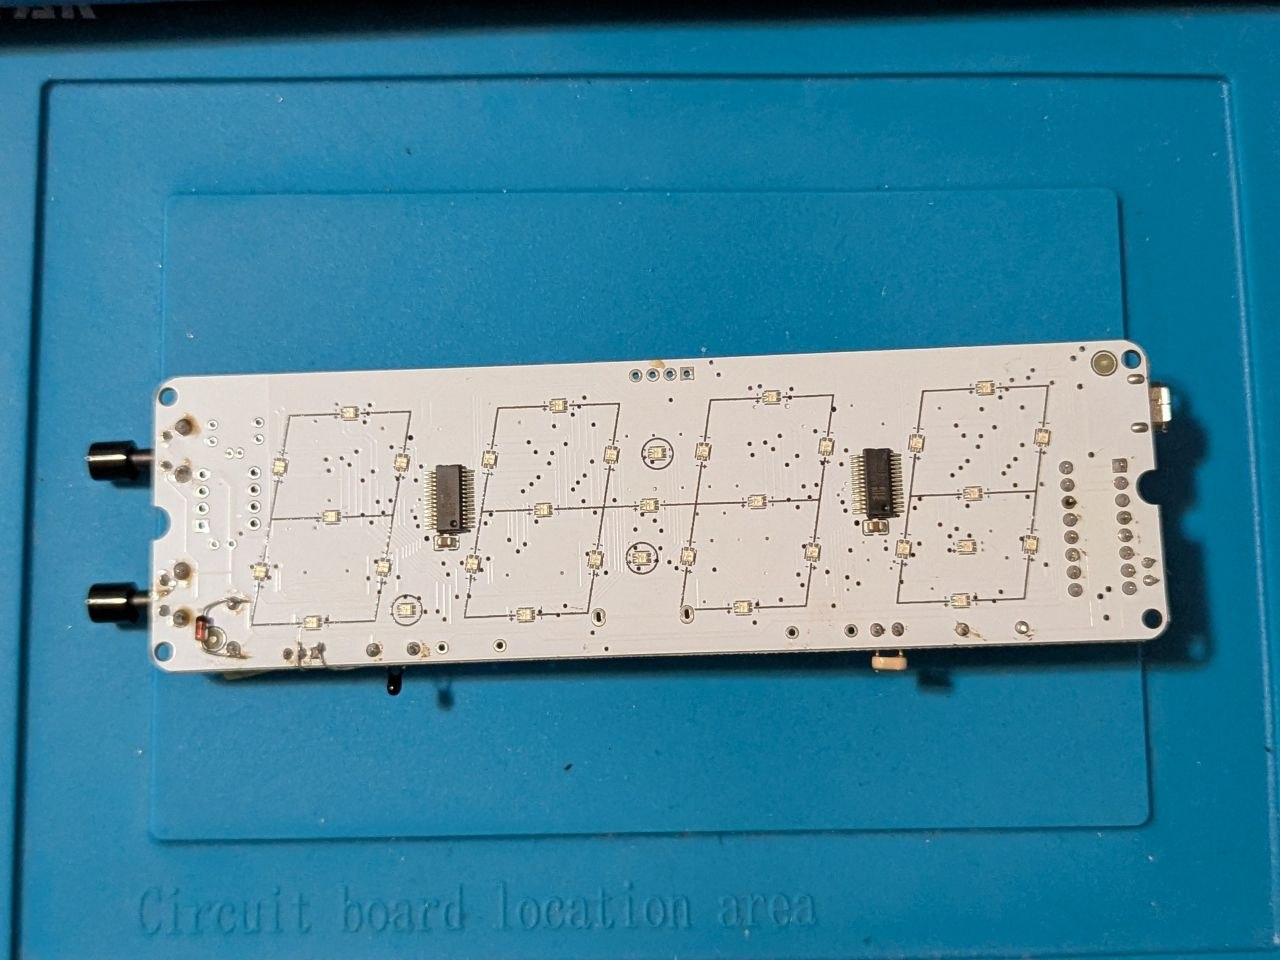
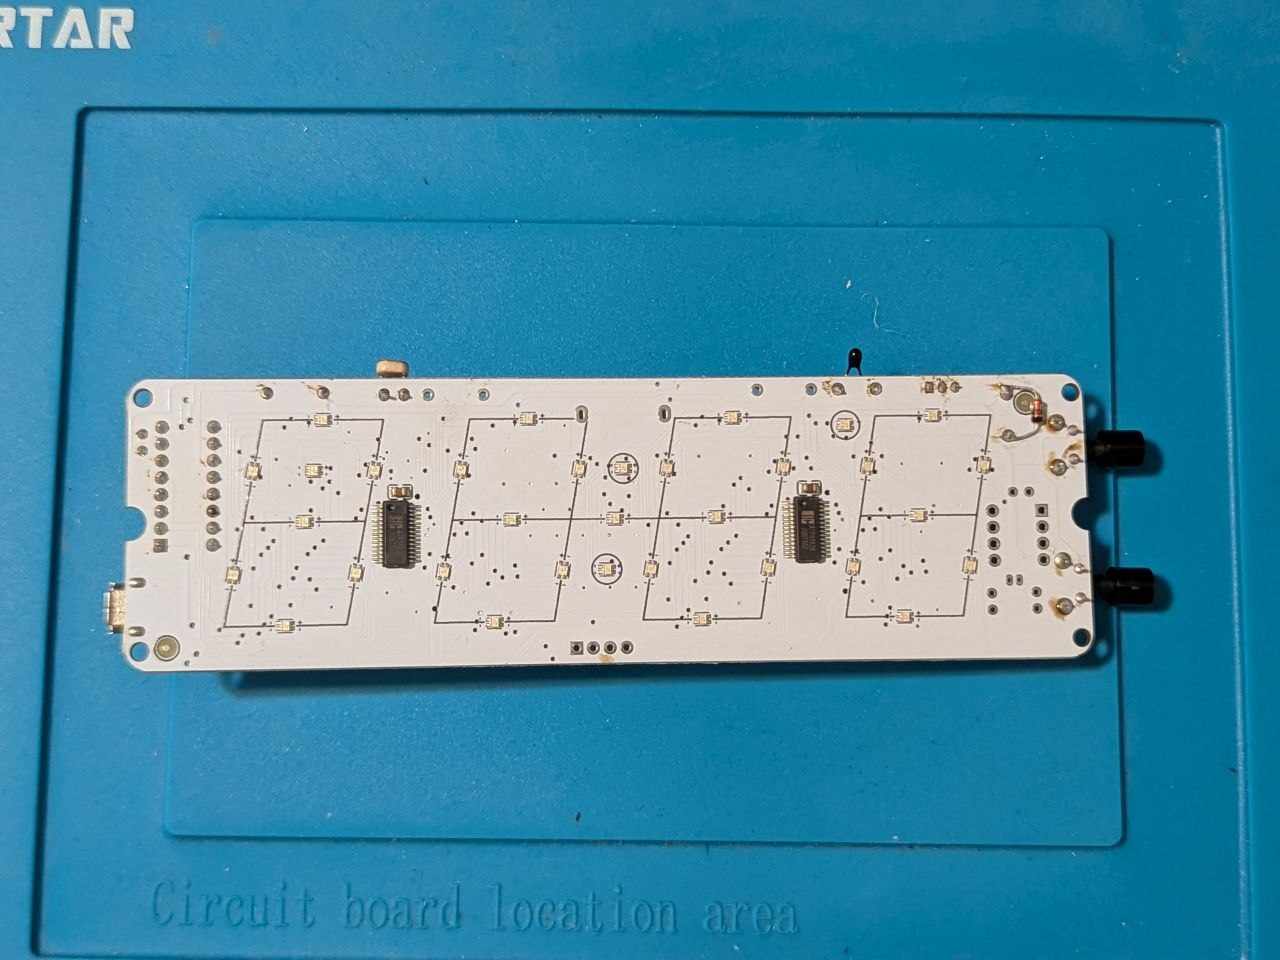
The buzzer mod is two changes: the diode and R5
The user's scope, 2026-11-17: with RBE and the BAT42 the signal at the
buzzer is the same as with the flyback diode and R5 at 5.1 k alone, so
the README drops both, and its pictures are retaken without them. A
BAT42 with no RBE keeps Q1 on all the time.

The buzzer's coil is 16 ohm, not 32, and Q1 is an S8550 in TO-92:
0.39 W in it at the worst, inside its 625 mW. agents/hardware.md has
the parts, the figures and the scope's finding.

diff --git a/README.md b/README.md
@@ -85,7 +85,7 @@ display and differs in these ways:
 | pin header | the one that comes with the module |
 | 2 × 10 kΩ 0603 resistors, ideally 1 % | R1 and R2 on the adapter; only needed for the temperature and light sensors |
 | 10 µF 25 V electrolytic capacitor | replaces the kit's C3, optional but recommended |
-| 1N4148 diode, a 5.1 kΩ and a 2.2 kΩ resistor, a BAT42 diode | the buzzer mod: optional, but the clips do not sound good without it |
+| 1N4148 diode, a 5.1 kΩ resistor | the buzzer mod: optional, but the clips do not sound good without it |
 | 5 V USB power supply | 1 A recommended; 500 mA works |
 
 ### The clock board
@@ -128,7 +128,7 @@ contacts and there is clearance under the adapter, fit the socket and
 the adapter is removable; if not, solder the adapter's header straight
 into the U4 footprint.
 
-**The buzzer mod, optional:** four changes that make the alarm louder
+**The buzzer mod, optional:** two changes that make the alarm louder
 and cleaner. The beeps and the note melodies are fine on a stock
 board; the [clips](#clips) are not, so do the mod if you want them:
 without it they are quiet and distorted. The firmware is the same
@@ -141,31 +141,19 @@ either way.
   ground every time Q1 turns off.
 - 5.1 kΩ for R5 instead of 10 kΩ, which doubles Q1's base current, so
   the transistor switches harder and the buzzer is louder.
-- RBE, a 2.2 kΩ resistor the board has no place for, from Q1's base
-  to its emitter, soldered across those two legs. It takes the charge
-  out of the base when the pin lets go, so the transistor turns off in
-  time; without it a clip with heavy bass is distorted. Of the four
-  this is the one a clip needs most.
-- A BAT42 Schottky diode (a BAT54 will do) from GPIO5 to 3.3 V, the
-  anode to the pin and the cathode, the end with the band, to 3.3 V.
-  RBE pulls the base, and through R5 the released pin, up to the 5 V
-  rail, more than the ESP32-C3's pin is rated for; the diode holds
-  the pin at about 3.5 V, and Q1 stays off. Fit it whenever you fit
-  RBE.
 
 <p align="center">
-  <img src="pics/board_top.jpg" width="48%" align="top" alt="The component side of a board with the buzzer mod: RBE beside Q1, R5, and the BAT42 under the adapter">
+  <img src="pics/board_top.jpg" width="48%" align="top" alt="The component side of a board with the buzzer mod: R5 by the adapter, Q1 and the buzzer">
   <img src="pics/board_bottom.jpg" width="48%" align="top" alt="The solder side of the same board: the flyback diode across the buzzer's pins">
 </p>
 
-A board with the mod. On the component side RBE lies beside Q1, on
-the transistor's legs; R5 is in its place above the adapter; and the
-BAT42 hangs under the adapter between the module's GPIO5 and 3.3 V
-pins. On the solder side the 1N4148 is across the buzzer's two pins,
-in the corner by the buttons. The green on top of the buzzer is
-masking tape over its opening, with a small hole made by a needle,
-which makes a Helmholtz resonator of the buzzer's cavity: not one of
-the four changes, but the tunes come through louder.
+A board with the mod. On the component side the 5.1 kΩ R5 is in its
+place by the adapter. On the solder side the 1N4148 is across the
+buzzer's two pins, in the corner by the buttons. The green on top of
+the buzzer is masking tape over its opening, with a small hole made
+by a needle, which makes a Helmholtz resonator of the buzzer's
+cavity: not one of the two changes, but the tunes come through
+louder.
 
 With the mod Q1 gets hot to the touch while a clip of sampled sound, a
 tracker module, a SID or a PT3 tune plays. Such a clip is a stream of
@@ -173,8 +161,8 @@ pulses 125 to 250 ns long, and the transistor cannot switch that
 fast: with under a milliamp of base current its edges are no shorter
 than the pulses. So for the length of the clip it never gets fully on
 or off and sits in its linear region, half on, with the buzzer's mean
-current through it: about 78 mA at 2.5 V at the worst, 0.2 W for the
-buzzer's 32 Ω coil on 5 V, inside the S8550's rating. It stays cold
+current through it: about 156 mA at 2.5 V at the worst, 0.4 W for the
+buzzer's 16 Ω coil on 5 V, inside the S8550's rating of 0.625 W. It stays cold
 when idle, on the beeps and on a beeper clip, whose pulses are long
 enough to switch on. Q1 stands next to the NTC, so the firmware holds
 the temperature at what it was before such a clip, for its length and

diff --git a/agents/hardware.md b/agents/hardware.md
@@ -10,6 +10,20 @@ The pin drives a PNP with its emitter at +5 V. Any driven level turns
 it on, including a 3.3 V high; only a released open-drain line is
 silent. Never make it push-pull.
 
+The parts:
+
+- Q1 is an S8550 in TO-92: 625 mW at 25 °C, about 200 °C/W, 500 mA,
+  −25 V (typical datasheet figures; makers differ a little).
+- The buzzer's coil is 16 Ω (the user's measurement, 2026-11-17; the
+  README said 32 Ω until then).
+- The most Q1 can dissipate with that load is at half the supply
+  across it: 2.5 V, 156 mA, 0.39 W, whatever its gain and R5. That is
+  a pin stuck low or a transistor held half on; inside the rating,
+  with the junction near 120 °C in a warm case. Calculated.
+- R5 sets the base current, not the pad: about 0.43 mA at 10 kΩ and
+  0.84 mA at 5.1 kΩ. Saturating into 16 Ω takes about 300 mA of
+  collector current, so Q1 does not saturate with either. Calculated.
+
 The pin under a clip:
 
 - The clip drives it from I2S0 with the GPIO matrix's inverter on, so
@@ -36,8 +50,9 @@ The bit rate:
   buzzer (`bench/`, 2026-11-13: a BC557, 5.1 k, a 100 Ω load). There a
   silent clip hissed at 128 bits and not at 256, and clips with heavy
   bass were distorted at either until a 2.2 kΩ resistor from base to
-  emitter let the saturated transistor turn off in time. No clock has
-  that resistor; whether an S8550 saturates depends on its load.
+  emitter let the saturated transistor turn off in time. On a clock's
+  own board that resistor changes nothing on the scope (2026-11-17,
+  under the mod below): into 16 Ω the S8550 does not saturate.
 - The converter at 64 bits a sample is white noise.
 - The clip's bits come in long pulses: a per-bit sigma-delta stream at
   256 kbit/s was quieter than one pulse per 16 kHz period
@@ -61,6 +76,16 @@ neither part:
 - R5 at 5.1 kΩ instead of 10 kΩ, whose doubled base current squares
   the collector's falling edge (a slope with 10 kΩ) and makes the
   buzzer louder.
+
+The mod was four parts until 2026-11-17, with RBE (2.2 kΩ from Q1's
+base to its emitter) and a BAT42 from GPIO5 to 3.3 V. The user's scope
+that day, on a clock's board:
+
+- The signal with all four is the same as with the diode and R5 at
+  5.1 kΩ alone, so RBE and the BAT42 are out of the README.
+- A BAT42 with no RBE keeps Q1 on all the time: never fit it alone.
+  With RBE as well Q1 is off while the pin is released.
+- `speaker-mod/` keeps its own RBE and BAT42, with other values.
 
 ## The GDMA's `out_dscr`
 

diff --git a/PLAN.md b/PLAN.md
@@ -27,6 +27,9 @@ The user's, and what the readiness check of the same day left open.
   (RBE beside Q1, R5, the BAT42 under the adapter) and the solder side
   (the flyback diode across the buzzer), under the mod's four changes
   in the README with a caption that says where each part is.
+  Retaken by the user the same day without RBE and the BAT42, which
+  the scope showed change nothing (`agents/hardware.md`, the buzzer's
+  mod): the mod is two changes, the diode and R5.
 - [ ] `CHANGELOG.md`: `[Unreleased]` made the version's section, the
   compare links under it.
 - [x] An install of an image with no token from the web installer or
